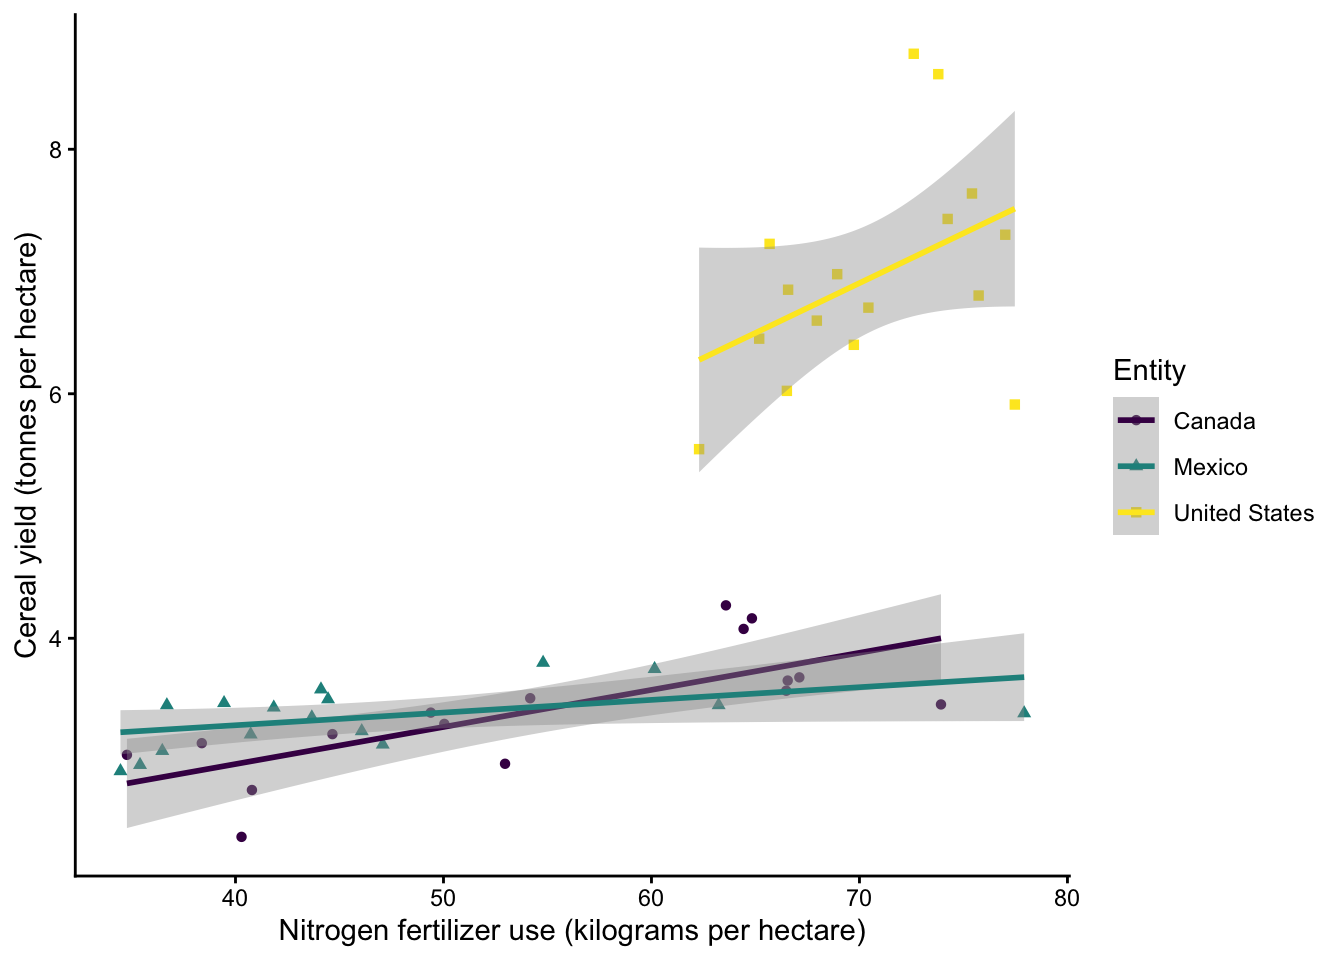
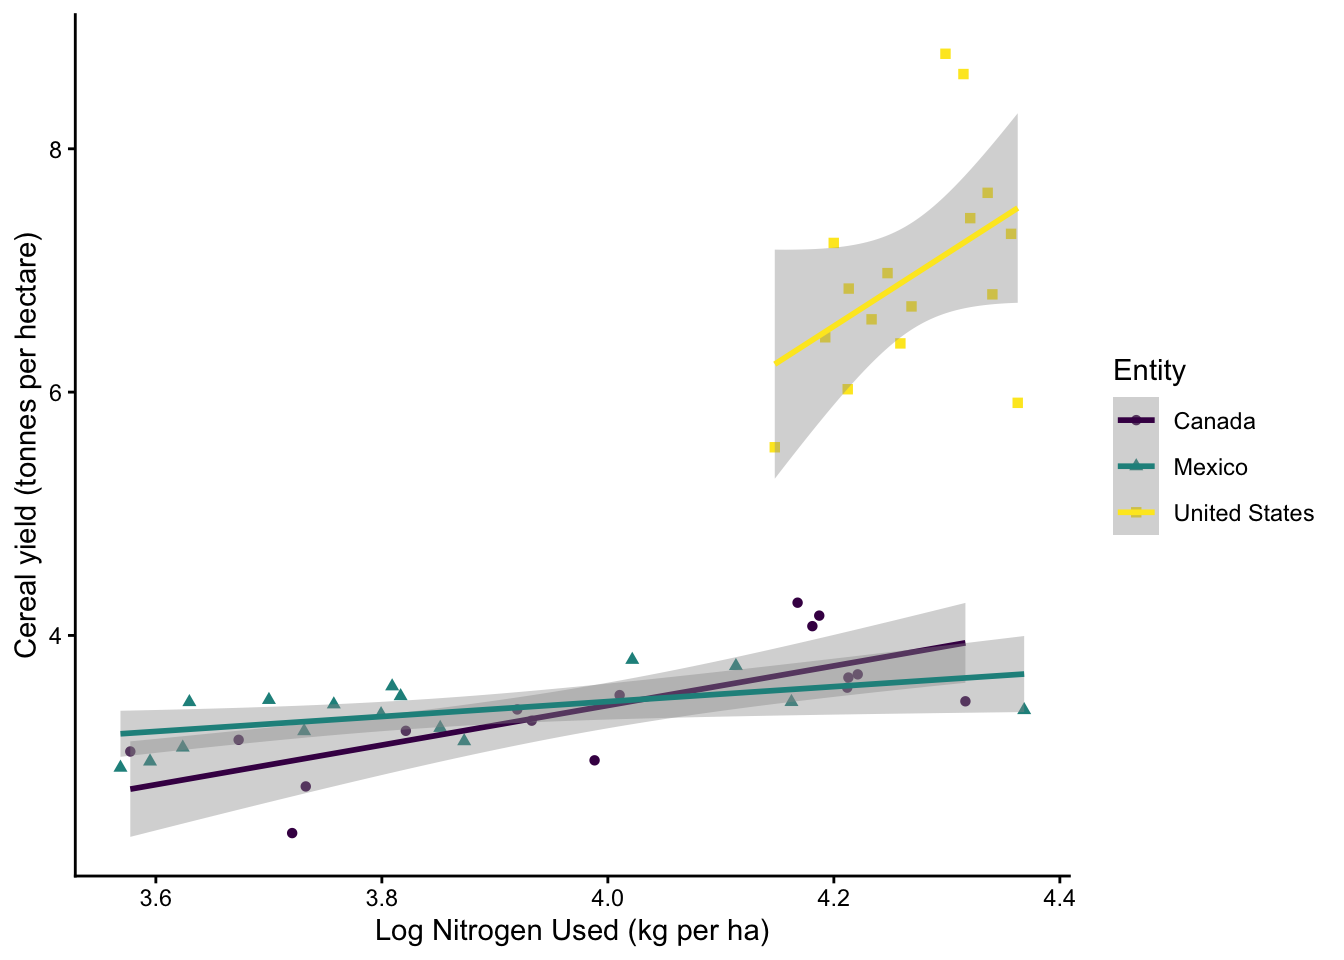
Fix to transformation

diff --git a/docs/cor_reg.html b/docs/cor_reg.html
@@ -451,7 +451,7 @@ window.Quarto = {
 <div class="code-copy-outer-scaffold"><div class="sourceCode cell-code" id="cb11"><pre class="sourceCode r code-with-copy"><code class="sourceCode r"><span id="cb11-1"><a href="#cb11-1" aria-hidden="true" tabindex="-1"></a><span class="fu">cor</span>(y, x) <span class="sc">|&gt;</span> </span>
 <span id="cb11-2"><a href="#cb11-2" aria-hidden="true" tabindex="-1"></a>  <span class="fu">round</span>(<span class="dv">2</span>)</span></code></pre></div><button title="Copy to Clipboard" class="code-copy-button"><i class="bi"></i></button></div>
 <div class="cell-output cell-output-stdout">
-<pre><code>[1] -0.05</code></pre>
+<pre><code>[1] -0.04</code></pre>
 </div>
 </div>
 </section>
